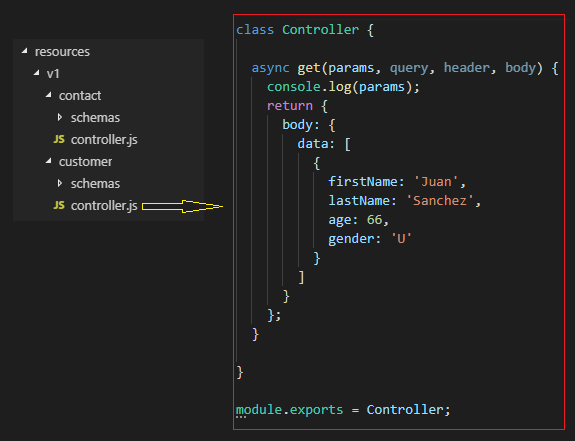
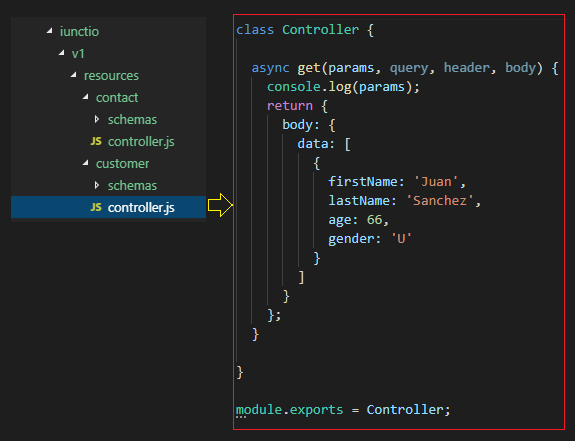
Rethink of the iunctio_home folder structure, 1.1 now requires resources to be put on a resources folder inside version folder, implemented gracefully stop of iunctio, updated unit tests and docs accordingly

Changed region(s): [[0.0591, 0.059, 0.2957, 0.3832], [0.0, 0.4127, 0.3843, 0.5011]]

diff --git a/src/core/iunctio-home.manager.js b/src/core/iunctio-home.manager.js
@@ -4,25 +4,26 @@ const jsYaml = require('js-yaml');
 const logger = require('../support/iunctio-logger');
 
 const REGEX_API_VERSION = /v[0-9]*/;
+const RESOURCES_FOLDER = 'resources';
 
 class IunctioHomeManager {
 
-  initialize(resourcesPath){
+  initialize(resourcesPath) {
     this.resourcesPath = resourcesPath;
   }
 
-  setSettings(settings){
+  setSettings(settings) {
     this.settings = settings;
   }
 
   getResourceConfig(version, name) {
-    let resourcePath = path.join(this.resourcesPath, version, name);
+    let resourcePath = path.join(this.resourcesPath, version, RESOURCES_FOLDER, name);
     let ResourceController = require(path.join(resourcePath, 'controller'));
     let resource = {
       resourceController: new ResourceController(),
       metadata: {}
     };
-    
+
     resource.metadata.name = name;
     resource.metadata.subOf = ResourceController.subOf
     let validationErrors = this._checkResourceControllerFunctions(resource);
@@ -33,9 +34,9 @@ class IunctioHomeManager {
     return resource;
   }
 
-  getHealthCheck(version, name){
-    let healthcheckYml = path.join(this.resourcesPath, version, name,'healthcheck.yml');
-    if(fs.existsSync(healthcheckYml)){
+  getHealthCheck(version, name) {
+    let healthcheckYml = path.join(this.resourcesPath, version, RESOURCES_FOLDER, name, 'healthcheck.yml');
+    if (fs.existsSync(healthcheckYml)) {
       return jsYaml.load(fs.readFileSync(healthcheckYml).toString());
     }
     return undefined;
@@ -87,39 +88,39 @@ class IunctioHomeManager {
     const versionsList = fs.readdirSync(this.resourcesPath);
     const resourcesObj = {};
     versionsList.forEach((versionDirName) => {
-      let versionDir = path.join(this.resourcesPath, versionDirName);
-      if (fs.lstatSync(versionDir).isDirectory()) {
-        if (REGEX_API_VERSION.test(versionDirName)) {
+      if (REGEX_API_VERSION.test(versionDirName)) {
+        let versionDirResources = path.join(this.resourcesPath, versionDirName, RESOURCES_FOLDER);
+        if (fs.lstatSync(versionDirResources).isDirectory()) {
           resourcesObj[versionDirName] = [];
-          let resourcesList = fs.readdirSync(versionDir);
+          let resourcesList = fs.readdirSync(versionDirResources);
           resourcesList.forEach((resourceDirName) => {
-            let resourceDir = path.join(versionDir, resourceDirName);
-            if (fs.lstatSync(resourceDir).isDirectory() && !resourceDirName.startsWith('_')) {
+            let resourceDir = path.join(versionDirResources, resourceDirName);
+            if (fs.lstatSync(resourceDir).isDirectory()) {
               if (fs.existsSync(path.join(resourceDir, 'controller.js'))) {
                 resourcesObj[versionDirName].push(resourceDirName);
               } else {
                 logger.warn(
-                  `Ignoring directory '${path.join(versionDirName, resourceDirName)}' found at resources path (it lacks a controller.js file)`,
+                  `Ignoring directory '${path.join(versionDirName, resourceDirName)}' found at resources folder (it lacks a controller.js file)`,
                   'HomeManager',
                   'GetAvailableResources'
                 );
               }
             }
           });
-        } else {
-          logger.warn(
-            `Ignoring directory '${versionDirName}' found at resources path (it doesn't have version format)`,
-            'HomeManager',
-            'GetAvailableResources'
-          );
         }
+      } else {
+        logger.warn(
+          `Ignoring directory '${versionDirName}' found at iunctio path (it doesn't have version format)`,
+          'HomeManager',
+          'GetAvailableResources'
+        );
       }
     });
     return resourcesObj;
   }
 
   getExpressCustomization(versionPath) {
-    if(versionPath === undefined){
+    if (versionPath === undefined) {
       versionPath = '';
     }
     let customizationPath = path.join(this.resourcesPath, versionPath, 'iunctio-customization');
@@ -129,7 +130,7 @@ class IunctioHomeManager {
     return undefined;
   }
 
-  getSettings(){
+  getSettings() {
     return this.settings;
   }
 

diff --git a/src/core/main.spec.js b/src/core/main.spec.js
@@ -203,6 +203,55 @@ describe('Main', () => {
     }
   });
 
+  it('should stop gracefully on SIGINT, SIGTERM and SIGKILL', () => {
+    let mockSetup = sinon.stub();
+    let mockServer = {
+      close: sinon.stub()
+    };
+    let homeManagerReturns = {
+      getExpressCustomization: {
+        getCustomLogger: sinon.stub().returns({}),
+        setupRouterBeforeApi: sinon.stub(),
+        setupRouterAfterApi: sinon.stub()
+      },
+      getSettings: {
+        apiVersion: {
+          mode: 'path'
+        }
+      },
+      getAvailableResources: []
+    };
+    let mockHomeManager = getMockHomeManager(homeManagerReturns);
+    let mockExpress = getMockExpress({listen: mockServer});
+    let mockBodyParser = getMockBodyParser();
+    let mockApiBuilder = {
+      buildHealthChecks: sinon.stub(),
+      buildApi: sinon.stub()
+    };
+    let mockApiBuilderClass = class ApiBuilder {
+      constructor(){
+        this.buildHealthChecks = mockApiBuilder.buildHealthChecks;
+        this.buildApi = mockApiBuilder.buildApi;
+      }
+    };
+
+    mockery.registerMock('./setup', mockSetup);
+    mockery.registerMock('express', mockExpress);
+    mockery.registerMock('body-parser', mockBodyParser);
+    mockery.registerMock('./iunctio-home.manager', mockHomeManager);
+    mockery.registerMock('./api-builders/path-version-builder', mockApiBuilderClass);
+    mockery.registerMock('./api-builders/header-version-builder', mockApiBuilderClass);
+
+    let bkProcessOn = process.on;
+    process.on = (event, cb) => {
+      cb();
+    };
+    require('./main');
+    process.on = bkProcessOn;
+
+    expect(mockServer.close.calledThrice).to.be.true;
+  });
+
 });
 
 function getMockHomeManager(returns){
@@ -214,9 +263,10 @@ function getMockHomeManager(returns){
 }
 
 function getMockExpress(returns){
+  returns = returns !== undefined ? returns : {};
   let mockInstance = {
     use: sinon.stub(),
-    listen: sinon.stub()
+    listen: sinon.stub().returns(returns.listen)
   };
   let mockExpress = sinon.stub().returns(mockInstance);
   mockExpress.mockInstance = mockInstance

diff --git a/src/core/iunctio-home.manager.spec.js b/src/core/iunctio-home.manager.spec.js
@@ -42,7 +42,7 @@ describe('IunctioHomeManager', () => {
     }
     MockResourceController.subOf = 'parentDummy';
 
-    mockery.registerMock(path.join('.','v1','dummy','controller'), MockResourceController);
+    mockery.registerMock(path.join('.','v1','resources','dummy','controller'), MockResourceController);
 
     let resource = homeManager.getResourceConfig('v1', 'dummy');
 
@@ -61,7 +61,7 @@ describe('IunctioHomeManager', () => {
     }
     MockResourceController.subOf = 'parentDummy';
 
-    mockery.registerMock(path.join('.','v1','dummy','controller'), MockResourceController);
+    mockery.registerMock(path.join('.','v1','resources','dummy','controller'), MockResourceController);
     try {
       homeManager.getResourceConfig('v1', 'dummy');
       expect(true, 'expected thrown error').to.be.false;
@@ -81,7 +81,7 @@ describe('IunctioHomeManager', () => {
     }
     MockResourceController.subOf = 'parentDummy';
 
-    mockery.registerMock(path.join('.','v1','dummy','controller'), MockResourceController);
+    mockery.registerMock(path.join('.','v1','resources','dummy','controller'), MockResourceController);
     try {
       homeManager.getResourceConfig('v1', 'dummy');
       expect(true, 'expected thrown error').to.be.false;
@@ -106,7 +106,7 @@ describe('IunctioHomeManager', () => {
     
     const homeManager = require('./iunctio-home.manager');
     homeManager.initialize('.');
-    let hc = homeManager.getHealthCheck('v1', 'dummy');
+    let hc = homeManager.getHealthCheck('v1', 'resources', 'dummy');
 
     expect(hc).to.be.eq('mock healthcheck');
     expect(mockFS.existsSync.called).to.be.true;
@@ -128,7 +128,7 @@ describe('IunctioHomeManager', () => {
     
     const homeManager = require('./iunctio-home.manager');
     homeManager.initialize('.');
-    let hc = homeManager.getHealthCheck('v1', 'dummy');
+    let hc = homeManager.getHealthCheck('v1', 'resources', 'dummy');
 
     expect(hc).to.be.undefined;
     expect(mockFS.existsSync.called).to.be.true;

diff --git a/src/core/setup.js b/src/core/setup.js
@@ -13,18 +13,18 @@ function setup() {
       argumentIunctioHome = path.join(process.cwd(), argumentIunctioHome);
     }
   }
-  const RESOURCES_PATH = argumentIunctioHome || process.env.IUNCTIO_HOME || path.join(process.cwd(), 'resources')
+  const IUNCTIO_HOME = argumentIunctioHome || process.env.IUNCTIO_HOME || path.join(process.cwd(), 'iunctio')
 
-  if (!path.isAbsolute(RESOURCES_PATH)) {
+  if (!path.isAbsolute(IUNCTIO_HOME)) {
     throw new Error('IUNCTIO_HOME must be an absolute path');
   }
 
-  if (!fs.existsSync(RESOURCES_PATH)) {
-    throw new Error(`Couldn't find the resources path folder -> ${RESOURCES_PATH}`);
+  if (!fs.existsSync(IUNCTIO_HOME)) {
+    throw new Error(`Couldn't find the iunctio path folder -> ${IUNCTIO_HOME}`);
   }
 
-  // Set RESOURCES_PATH to home manager to be able to use it
-  iunctioHomeManager.initialize(RESOURCES_PATH);
+  // Set IUNCTIO_HOME to home manager to be able to use it
+  iunctioHomeManager.initialize(IUNCTIO_HOME);
 
   // Logger is first set here
   let iunctioCustomization = iunctioHomeManager.getExpressCustomization();
@@ -33,15 +33,15 @@ function setup() {
   }
 
   logger.info(
-    `Using resources from ${RESOURCES_PATH}`,
+    `Using resources from ${IUNCTIO_HOME}`,
     'Setup',
     'LocatedResourcesPathFolder'
   );
 
-  let settingsFilePath = path.join(RESOURCES_PATH, 'settings.yml');
+  let settingsFilePath = path.join(IUNCTIO_HOME, 'settings.yml');
   let settings;
   if (fs.existsSync(settingsFilePath)) {
-    settings = jsYaml.load(fs.readFileSync(path.join(RESOURCES_PATH, 'settings.yml')));
+    settings = jsYaml.load(fs.readFileSync(path.join(IUNCTIO_HOME, 'settings.yml')));
     let settingsSchema = schemaValidation.resolveSchema(path.join(__dirname, '../support/schemas/settings.schema.yml'));
     let errors = schemaValidation.validate(settingsSchema, settings);
     if (errors && errors.error) {

diff --git a/src/core/main.js b/src/core/main.js
@@ -65,12 +65,15 @@ function main(){
     }
   
     app.use('/api', apiRouter);
-    app.listen(port);
+    let server = app.listen(port);
     logger.info(
       `Iunctio instance is listening on port ${port}`,
       'Main',
       'IunctioStarted'
     );
+    process.on('SIGINT', closeServerCallback(server, 'SIGINT'));
+    process.on('SIGKILL', closeServerCallback(server, 'SIGKILL'));
+    process.on('SIGTERM', closeServerCallback(server, 'SIGTERM'));
   } catch (error) {
     logger.error(
       'Unhandled Error',
@@ -79,6 +82,17 @@ function main(){
       error
     );
     throw error;
+  }
+}
+
+function closeServerCallback(server, signal){
+  return () => {
+    server.close();
+    logger.info(
+      `${signal} received, stopped Iunctio instance`,
+      'Main',
+      'closeServerCallback'
+    );
   }
 }
 

diff --git a/src/core/setup.spec.js b/src/core/setup.spec.js
@@ -269,7 +269,7 @@ describe('Setup', () => {
     }
   });
 
-  it('should setup (error on non-existing resources path folder)', () => {
+  it('should setup (error on non-existing iunctio path folder)', () => {
     let argvBk = process.argv;
     let mockFS = {
       existsSync: sinon.stub().returns(false),
@@ -308,7 +308,7 @@ describe('Setup', () => {
       expect(true,'expected thrown error').to.be.true;
     } catch (error) {
       process.argv = argvBk;
-      expect(error.message).to.contain(`Couldn't find the resources path folder`);
+      expect(error.message).to.contain(`Couldn't find the iunctio path folder`);
     }
   });
 

diff --git a/README.md b/README.md
@@ -3,6 +3,8 @@ A framework for easy development of REST APIs using an Express definition layer.
 
 ***Requires native Async/Await support, Node 8 or later is recommended***
 
+**WARNING!, breaking changes in 1.1, resources now must be put inside a "resources" folder inside the "version" folder**
+
 ## Why should you should use this
 If you want to save yourself the trouble of:
 - Setting up Express Routers for an apt REST API.
@@ -13,7 +15,7 @@ If you want to save yourself the trouble of:
 You can use this library, for each resource you only need to:
 
 - Write a js file defining your controller via a ES6 class and four methods: get, post, patch and delete.
-- Put it in a "version" folder.
+- Put it in a "version"/resources folder.
 - Write schemas using yaml [joi-json](https://github.com/vandium-io/joi-json) based files, for each method and request/response.
 
 Having that, Iunctio will start with your resources ready to go, or said in another way...
@@ -34,23 +36,23 @@ First, install it on your base project:
 npm install iunctio
 ```
 
-Iunctio needs to know where to locate the resources, it has three ways to do so:
+Iunctio needs to know where to locate the iunctio_home, it has three ways to do so:
 
-- First argument on Iunctio command is a relative path from where it is run.
+- First argument on **iunctio** command is a relative path from where it is run.
 - Environment variable IUNCTIO_HOME is set to an absolute path
-- Fallbacks to a folder named "resources" in the working directory where Iunctio command is run
+- Fallbacks to a folder named "iunctio" in the working directory where **iunctio** command is run
 
 For example:
 
 ```bash
-# will look for resources at /mydir/arg/otherresources
-me@here:/mydir$ node ./node_modules/.bin/./iunctio ./arg/otherresources
+# will look for resources at /mydir/arg/otheriunctio
+me@here:/mydir$ node ./node_modules/.bin/./iunctio ./arg/otheriunctio
 
-# will look for resources at /anywhere/myresources
-me@here:/mydir$ export IUNCTIO_HOME=/anywhere/myresources
+# will look for resources at /anywhere/myiunctio
+me@here:/mydir$ export IUNCTIO_HOME=/anywhere/myiunctio
 me@here:/mydir$ node ./node_modules/.bin/./iunctio
 
-# will look for resources at /mydir/resources
+# will look for resources at /mydir/iunctio
 me@here:/mydir$ node ./node_modules/.bin/./iunctio
 ```
 
@@ -142,17 +144,6 @@ export IUNCTIO_RESOURCES=customer,account,contact
 
 Any other existing resources in the resources folder will be skipped in the resource loading stage, if a specified resource in *IUNCTIO_RESOURCES* doesn't exists in the resources folder there is no effect.
 
-## Utility folders in version folder
-You can intentionally instruct Iunctio to skip some folders in the resource loading stage, by prefixing them with underscore in their name, this can be used for a folder that you intend to keep also versioned within the API but is not a resource (ie: model, services, etc...).
-
-```bash
-resources
-|- v1
-  |- _services #<- Will be ignored
-  |- contact
-  |- customer
-```
-
 ## Extending the pre-setted Express Routers
 Iunctio lifecycle allows for additional setups to the main Express Router and for each version Express Router, providing an **iunctio-customization.js** file, which must export the *setupRouterBeforeApi* and *setupRouterAfterApi* functions, depending where you put this file (or multiple ones), they will affect the Express middleware order in different ways, to put it simply in a normal case, the order is:
 
@@ -197,11 +188,9 @@ dependencies:
 ```
 
 ## Provided Example
-In this repository the folder [libtest](libtest) contains a resources folder and a sample http GET request to test it, it can be run using `npm test` here.
+In this repository the folder [libtest](libtest) contains a iunctio folder and a sample http GET request to test it, it can be run using `npm run libtest-start` here.
 
 ## TO-DO
 
-- make it stoppable "gracefully"
-- allow a better api version structure
 - Refactoring Unit tests.
 - Anything else that may come up.
